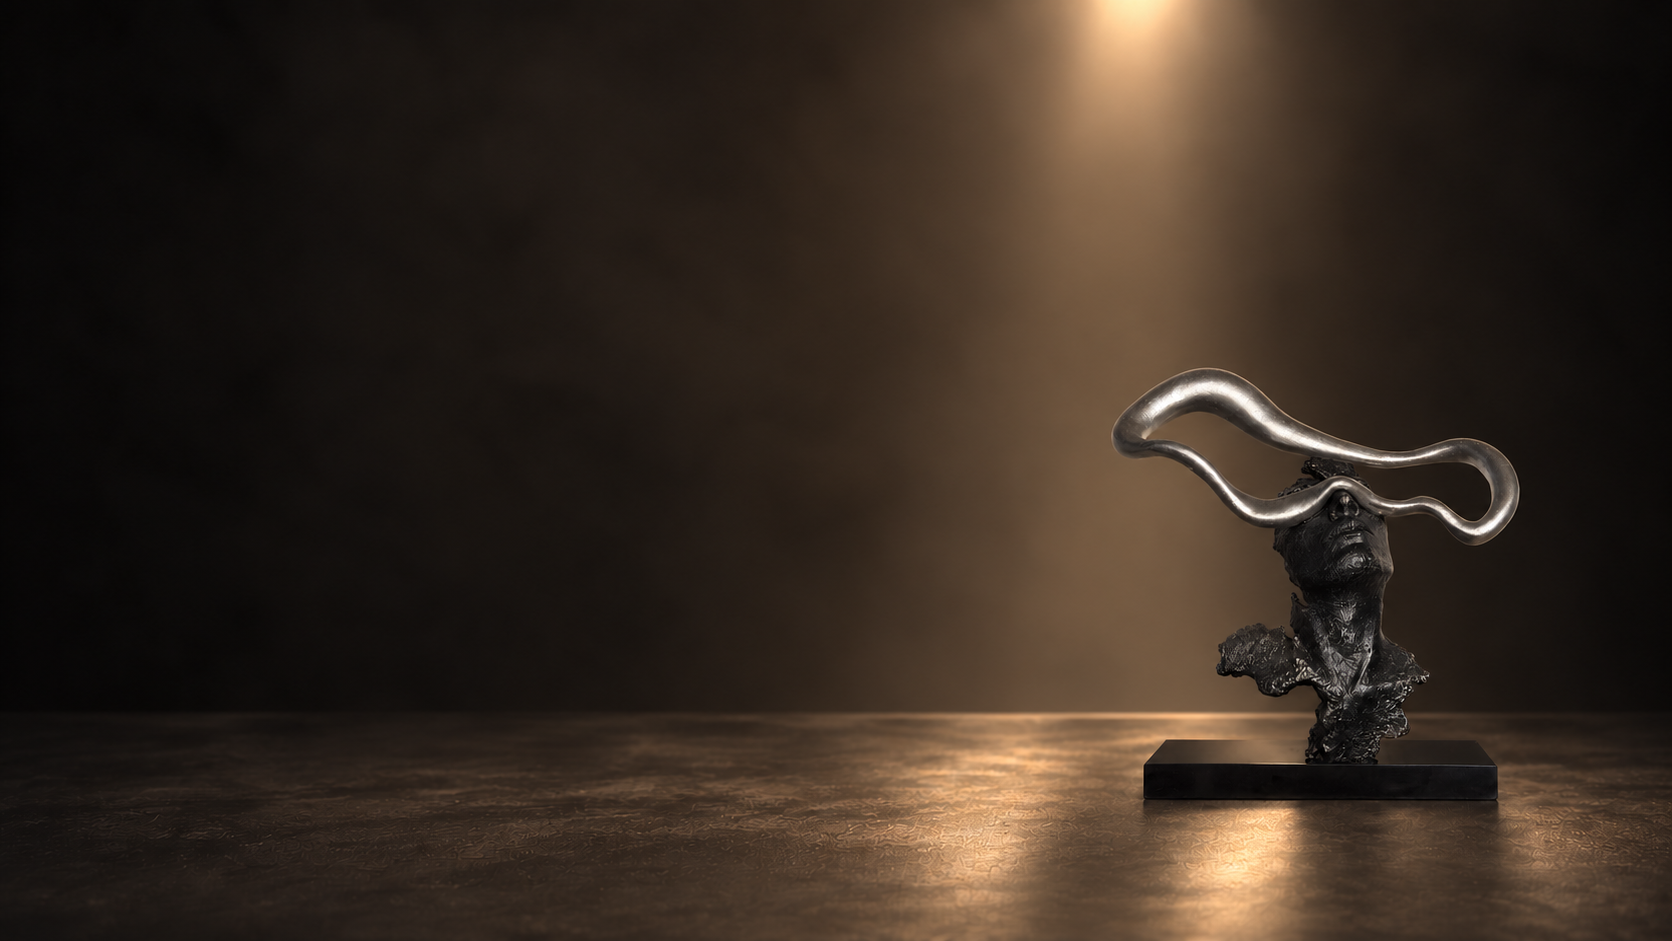
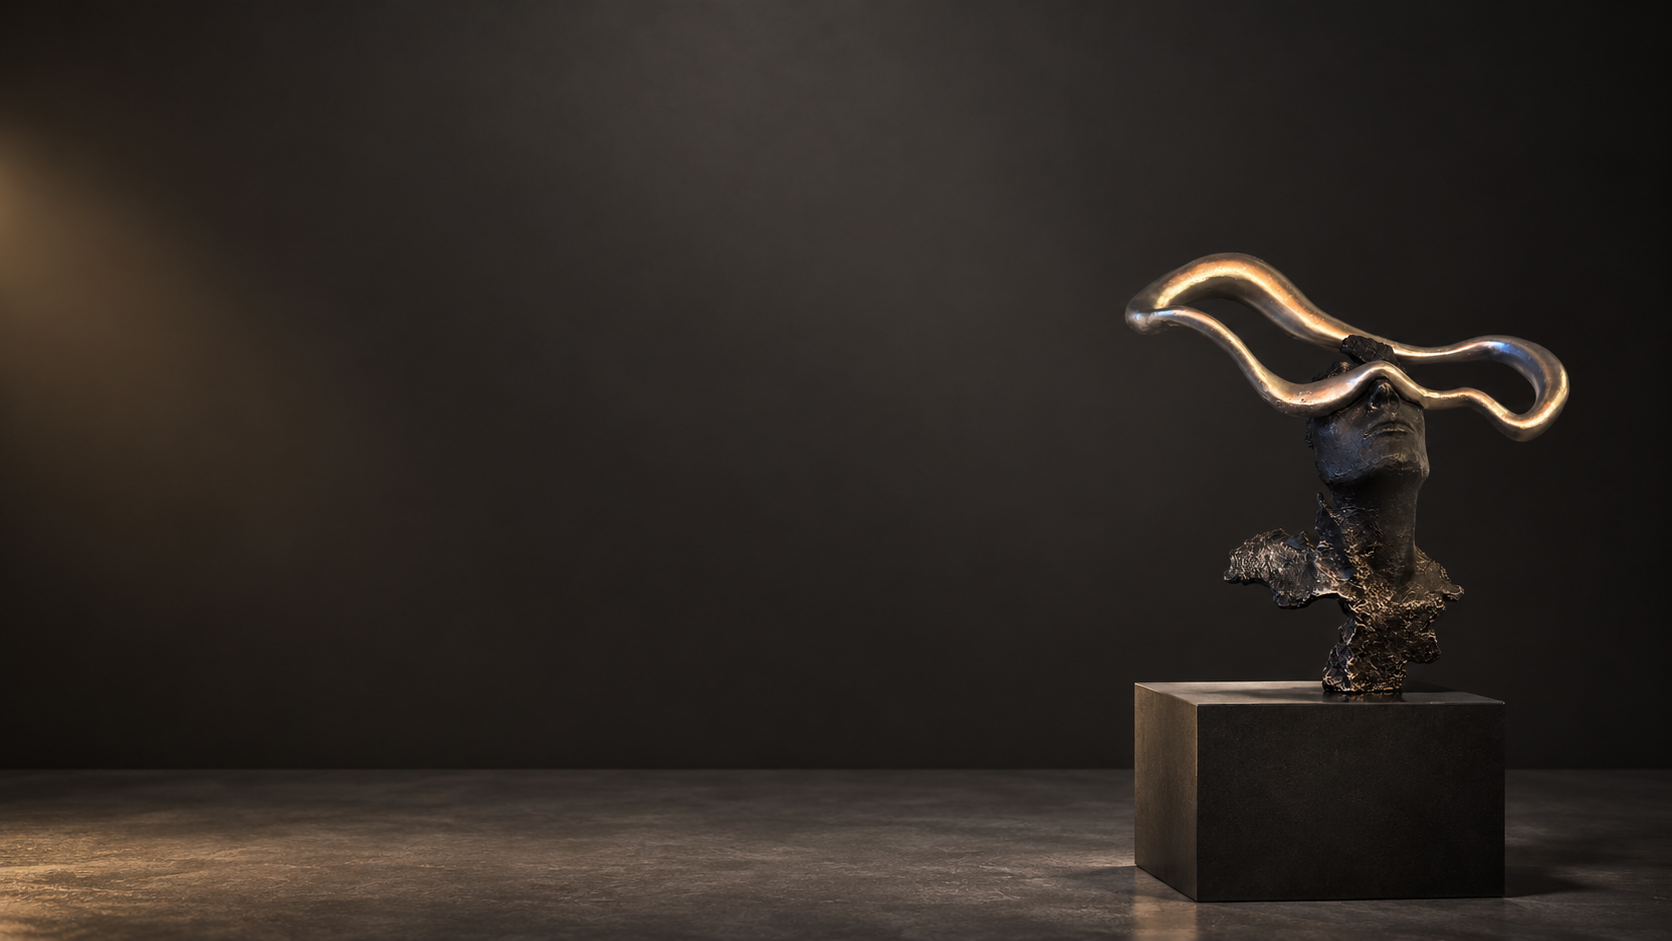
first commit

diff --git a/lib/content.ts b/lib/content.ts
@@ -91,19 +91,16 @@ export const PRODUCTS: Product[] = [
     description:
       "An everyday object carried in Carrara marble. MONOGRAMME reinterprets the carriall as a sculpted form — quilted motifs worked by hand into the stone, handles doubling into a single relaxed knot. Luxury rendered as study.",
     price: { inr: 184000, usd: 2260 },
-    image: "/Edit/Bag/Bag-front.png",
+    image: "/Edit/Bag/Bag-front3.png",
     aspect: "portrait",
     material: "Hand-carved Carrara marble",
     body:
       "MONOGRAMME is a sculptural meditation on the everyday object. A carriall, pulled out of leather and into stone — the quilted repeats, the stitched seam, the looped handles all carved from a single block of white Carrara. Scaled for the console, the mantel, the shelf that asks for one considered object rather than many.",
     gallery: [
-      "/Edit/Bag/Bag-front.png",
+      "/Edit/Bag/Bag-front3.png",
       "/Edit/Bag/Bag1.png",
-      "/Edit/Bag/Bag3.png",
-      "/Edit/Bag/Bag-left.png",
-      "/Edit/Bag/Bag-right.png",
-      "/Edit/Bag/Bag-back.png",
-      "/Edit/Bag/Bag5.png",
+      "/Edit/Bag/Bagold3.png",
+      "/Edit/Bag/Bag5.png"
 
     ],
     details: [
@@ -1005,9 +1002,9 @@ export const PRODUCTS: Product[] = [
       "Two faces, two scales, two finishes — held together by a singular sculptural language. Their quiet ambiguity invites interpretation rather than defining it.",
     gallery: [
       "/images/sculptures/Engime/Engime1.webp",
+      "/images/sculptures/Engime/Engime1.4.webp",
       "/images/sculptures/Engime/Engime1.2.webp",
       "/images/sculptures/Engime/Engime1.5.webp",
-      "/images/sculptures/Engime/Engime1.4.webp",
       "/images/sculptures/Engime/Engime1.6.webp",
     ],
     details: [
@@ -1055,14 +1052,14 @@ export const PRODUCTS: Product[] = [
     description:
       "An abstract interpretation of the horse, defined by elongated lines, sculptural geometry and a commanding stance. The contrasting metallic mane brings a quiet flash of opulence to its otherwise restrained form.",
     price: { inr: 118000, usd: 1450 },
-    image: "/images/sculptures/Fouge/Fouge-new2.webp",
+    image: "/images/sculptures/Fouge/Fouge-new1.webp",
     aspect: "portrait",
     material: "Metal, aged patina with metallic mane",
     body:
       "FOUGUE embodies contained power — strong without heaviness, expressive without excess. Its poised silhouette and architectural proportions give it a striking presence from every angle.",
     gallery: [
-      "/images/sculptures/Fouge/Fouge-new2.webp",
       "/images/sculptures/Fouge/Fouge-new1.webp",
+      "/images/sculptures/Fouge/Fouge-new2.webp",
       "/images/sculptures/Fouge/Fouge-new3.webp",
       "/images/sculptures/Fouge/Fouge-new4.webp",
       "/images/sculptures/Fouge/horse1.webp",
@@ -1113,20 +1110,18 @@ export const PRODUCTS: Product[] = [
     description:
       "A study of human instinct — what is concealed, what is sought, what is ultimately revealed. A fluid gesture veils the gaze, poised between shadow and awakening.",
     price: { inr: 168000, usd: 2060 },
-    image: "/images/sculptures/Linconnu/Li1.webp",
+    image: "/images/sculptures/Linconnu/L1.png",
     aspect: "portrait",
     material: "Textured metal with layered detailing, black marble base",
     body:
       "L'INCONNU explores the space between the visible and the unknown. Its raw, fragmented surface is interrupted by a fluid gesture across the gaze — creating a sculptural presence that feels both human and abstract.",
     gallery: [
-      "/images/sculptures/Linconnu/Li1.webp",
-      "/images/sculptures/Linconnu/Li2.webp",
-      "/images/sculptures/Linconnu/Li3.webp",
-      "/images/sculptures/Linconnu/Li4.webp",
-       "/images/sculptures/Linconnu/Li5.webp",
-      "/images/sculptures/Linconnu/Li6.webp",
-      "/images/sculptures/Linconnu/Li7.webp",
-      "/images/sculptures/Linconnu/Li8.webp",
+      "/images/sculptures/Linconnu/L1.png",
+      "/images/sculptures/Linconnu/L2.PNG",
+      "/images/sculptures/Linconnu/L3.PNG",
+      "/images/sculptures/Linconnu/L4.png",
+       "/images/sculptures/Linconnu/L5.PNG",
+      "/images/sculptures/Linconnu/L6.PNG",
       
     ],
     details: [

diff --git a/components/product/product-discover-also.tsx b/components/product/product-discover-also.tsx
@@ -24,18 +24,19 @@ export function ProductDiscoverAlso({
         ? "md:grid-cols-2"
         : "md:grid-cols-3";
   const smColsClass = products.length === 1 ? "sm:grid-cols-1" : "sm:grid-cols-2";
-  // Narrow the grid to its natural card width so the row sits dead-centre
-  // under the heading on larger screens.
-  const widthClass =
+  // Images grid is left-aligned within the editorial container; narrow the
+  // grid itself (not the whole section) so 1- and 2-item rails hug the left
+  // edge instead of stretching across.
+  const gridWidthClass =
     products.length === 1
-      ? "max-w-lg"
+      ? "max-w-md mr-auto"
       : products.length === 2
-        ? "max-w-5xl"
-        : "max-w-editorial";
+        ? "max-w-3xl mr-auto"
+        : "";
 
   return (
     <section className="relative bg-ink py-24 text-chalk md:py-32">
-      <div className={`mx-auto ${widthClass} px-6 md:px-14`}>
+      <div className="mx-auto max-w-editorial px-6 md:px-14">
         <motion.h2
           initial={{ opacity: 0, y: 20 }}
           whileInView={{ opacity: 1, y: 0 }}
@@ -46,7 +47,7 @@ export function ProductDiscoverAlso({
           Discover Also
         </motion.h2>
 
-        <div className={`grid grid-cols-1 gap-x-8 gap-y-16 ${smColsClass} ${mdColsClass} md:gap-x-14 lg:gap-x-20`}>
+        <div className={`grid grid-cols-1 gap-x-8 gap-y-16 ${smColsClass} ${mdColsClass} ${gridWidthClass} md:gap-x-14 lg:gap-x-20`}>
           {products.map((product, i) => (
             <RelatedCard key={product.handle} product={product} index={i} aspectClass={aspectClass} />
           ))}

diff --git a/components/home/journal.tsx b/components/home/journal.tsx
@@ -8,18 +8,6 @@ import { SafeImage } from "@/components/ui/safe-image";
 
 type Entry = (typeof JOURNAL_ENTRIES)[number];
 
-// Per-slug HOME-ONLY image overrides. These shots live in
-// /public/Home-studio-cover/ and are used ONLY on the home-page "From the
-// Studio" teaser — the /the-studio index and individual entry pages
-// continue to read entry.image from content.ts. Add a slug key here to
-// swap the home tile without touching the shared journal data.
-const HOME_IMAGE_OVERRIDE: Record<string, string> = {
-  "a-heart-in-the-round": "/Home-studio-cover/Heart.png",
-  "wings-raised": "/Home-studio-cover/Eagle.png",
-  "the-landed-bird": "/Home-studio-cover/Pigeon.png",
-  "the-water-bird-held": "/Home-studio-cover/Duck.png"
-};
-
 export function JournalTeaser() {
   const stripRef = useRef<HTMLDivElement>(null);
   const { scrollYProgress } = useScroll({
@@ -119,12 +107,12 @@ function JournalCard({
     >
       <Link
         href={`/the-studio/${entry.slug}`}
-        className="group relative block h-[55svh] w-full overflow-hidden bg-onyx md:h-[65svh]"
+        className="group relative block h-[70svh] w-full overflow-hidden bg-onyx md:h-[85svh]"
       >
         {/* Parallax image (extends past container so translate doesn't reveal empty edges) */}
         <motion.div style={{ y }} className="absolute -inset-y-[8%] inset-x-0">
           <SafeImage
-            src={HOME_IMAGE_OVERRIDE[entry.slug] ?? entry.image}
+            src={entry.image}
             alt={entry.title}
             fallbackSeed={entry.slug}
             fill

diff --git a/components/home/chapter-film.tsx b/components/home/chapter-film.tsx
@@ -1,7 +1,6 @@
 "use client";
 
 import { motion } from "framer-motion";
-import Image from "next/image";
 
 export function ChapterFilm() {
   return (
@@ -17,12 +16,15 @@ export function ChapterFilm() {
         className="mx-auto max-w-3xl px-6 md:px-10"
       >
         <div className="relative aspect-[4/3] w-full overflow-hidden bg-onyx">
-          <Image
-            src="/images/Home/studio.png"
-            alt="A conversation at the studio"
-            fill
-            sizes="(min-width: 768px) 48rem, 100vw"
-            className="object-cover"
+          <video
+            src="/images/dining-video.mp4"
+            autoPlay
+            loop
+            muted
+            playsInline
+            preload="metadata"
+            aria-label="A conversation at the studio"
+            className="absolute inset-0 h-full w-full object-cover"
           />
         </div>
 

diff --git a/components/home/chapter-object.tsx b/components/home/chapter-object.tsx
@@ -41,7 +41,7 @@ const HERO_HANDLE_OVERRIDE: Partial<Record<Product["category"], string>> = {
 // Lets us pick a specific in-frame image without mutating the product data
 // (which would also change the collection card, sticky bar, etc.).
 const HERO_IMAGE_OVERRIDE: Partial<Record<Product["category"], string>> = {
-  Sculptures: "/images/sculptures/Linconnu/Linconnu-cover.webp",
+  Sculptures: "/images/sculptures/Linconnu/Linconnu-presence.webp",
   Vases: "/images/vases/Onde/Vase-onde-presence.webp"
 };
 
